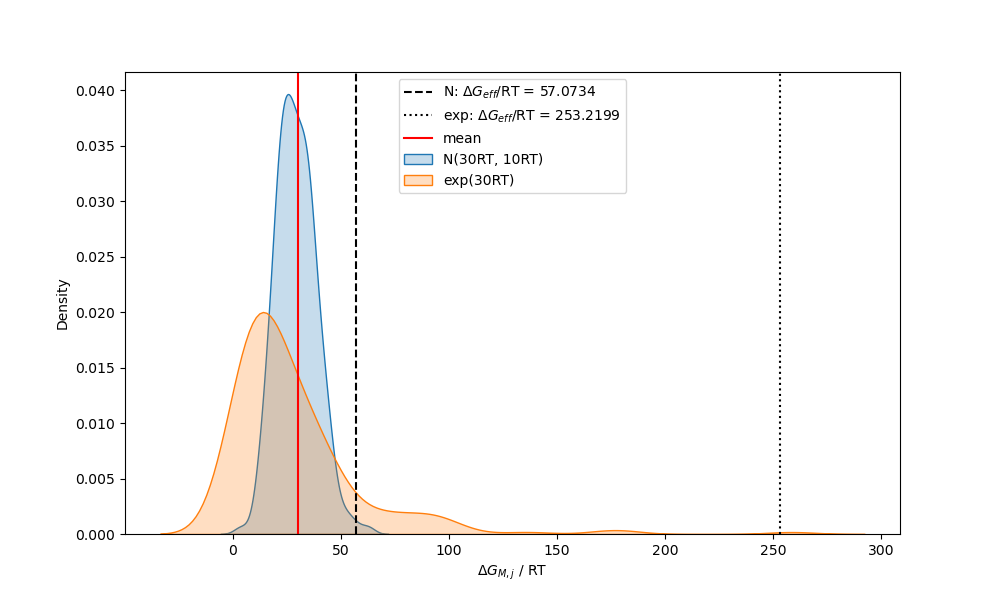
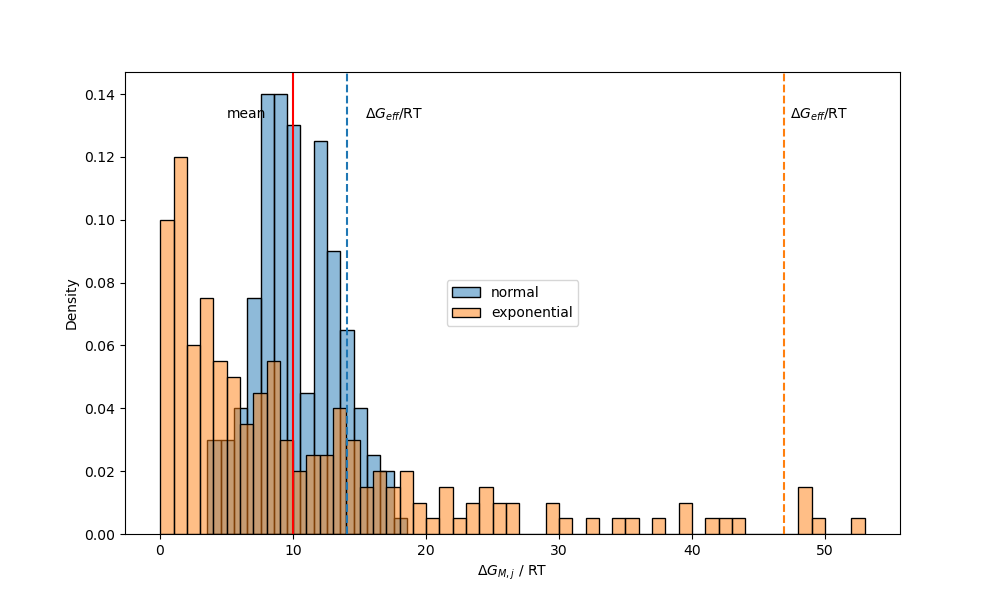
Update analyses and figures

diff --git a/run_analyses.py b/run_analyses.py
@@ -26,7 +26,7 @@ plot_paths = False
 
 # Inputs for testing barriers
 T = 300
-large = 10
+large = 18
 large_barrier = large*R*T
 small_barrier = large_barrier / 2
 sigma = large_barrier / 3
@@ -49,7 +49,7 @@ if parallel_pores:
     for n in range(n_paths):
         model_equal.add_Path(dist=dist, dist_params=params)
         effective_barriers[n] = model_equal.paths[n].calculate_effective_barrier() / (R*T)
-        sns.histplot(model_equal.paths[n].membrane_barriers / (R*T), ax=ax[0], stat='density', fill=fill)
+        sns.histplot(model_equal.paths[n].membrane_barriers / (R*T), edgecolor=None, ax=ax[0], stat='density', fill=fill, alpha=0.25)
         # model_equal.paths[n].plot_distribution(fill=fill, ax=ax[0])
 
     permeability = model_equal.calculate_permeability()
@@ -77,7 +77,7 @@ if parallel_pores:
     for n in range(n_paths):
         model_norm.add_Path(dist=dist, dist_params=params)
         effective_barriers[n] = model_norm.paths[n].calculate_effective_barrier() / (R*T)
-        sns.histplot(model_norm.paths[n].membrane_barriers / (R*T), ax=ax[1], stat='density', fill=fill)
+        sns.histplot(model_norm.paths[n].membrane_barriers / (R*T), binwidth=1, edgecolor=None, ax=ax[1], stat='density', fill=fill, alpha=0.25)
         # model_norm.paths[n].plot_distribution(fill=fill, ax=ax[1])
 
     permeability = model_norm.calculate_permeability()
@@ -106,7 +106,7 @@ if parallel_pores:
     for n in range(n_paths):
         model_exp.add_Path(dist=dist, dist_params=params)
         effective_barriers[n] = model_exp.paths[n].calculate_effective_barrier() / (R*T)
-        sns.histplot(model_exp.paths[n].membrane_barriers / (R*T), ax=ax[2], stat='density', fill=fill)
+        sns.histplot(model_exp.paths[n].membrane_barriers / (R*T), binwidth=1, edgecolor=None, ax=ax[2], stat='density', fill=fill, alpha=0.25)
         # model_exp.paths[n].plot_distribution(fill=fill, ax=ax[2])
 
     permeability = model_exp.calculate_permeability()
@@ -122,6 +122,7 @@ if parallel_pores:
     df_exp['flux_fraction'] = df_exp['permeability_percent'].cumsum() / 100
     df_exp['pore_fraction'] = np.arange(1,n_paths+1) / n_paths
     df_exp.loc[len(df_exp.index)] = [0,0,0,0,0,0] # add zero row for ROC curve
+    
     # PLOTTING
 
     # plot the effective barrier, max barrier, and mean barrier
@@ -141,6 +142,7 @@ if parallel_pores:
     ax[2].set_title(f'Exponential distribution, mean = {large_barrier/R/T:.0f}RT')
 
     ax[2].set_xlabel('$\Delta G_{M,j} / RT$')
+    ax[2].set_xlim(-10,)
 
     fig1, ax1 = plt.subplots(1,1, figsize=(6,6))
     sns.barplot(data=df_norm, x='pores', y='permeability_percent', ax=ax1)
@@ -155,8 +157,6 @@ if parallel_pores:
     xmin, xmax = plt.xlim()
     ymin, ymax = plt.ylim()
     ax2.text(xmax*0.95, ymax*0.9, 'Max P: {:.4f}\nOverall P: {:.4f}'.format(df_exp['permeability'].max(), df_exp['permeability'].sum()), ha='right')
-
-    print(df_exp)
     
     fig3, ax3 = plt.subplots(1,1, figsize=(6,6))
     sns.lineplot(data=df_equal, x='pore_fraction', y='flux_fraction', ax=ax3, label='equal')
@@ -176,20 +176,25 @@ if compare_effective_barriers:
     model = Path(T=T, dist=dist, dist_params=params)
     dG_eff = model.calculate_effective_barrier() / (R*T)
     model.membrane_barriers = model.membrane_barriers / (R*T)
-    ax = model.plot_distribution(bw='scott', show_hist=False, label=f'N({large_barrier/R/T:.0f}RT, {sigma/R/T:.0f}RT)')
-    ax.axvline(dG_eff, ls='dashed', c='k', label='N: $\Delta G_{eff}$/RT = %.4f' % (dG_eff))
+    ax = model.plot_distribution(hist=True, color='tab:blue', binwidth=1, label='normal')
+    ymin, ymax = plt.ylim()
+    ax.axvline(dG_eff, ls='dashed', c='tab:blue')
+    ax.text(dG_eff*1.1, ymax*0.9, '$\Delta G_{eff}$/RT')
 
     dist = 'exponential'
     params = {'beta' : large_barrier}
     model = Path(T=T, dist=dist, dist_params=params)
     dG_eff = model.calculate_effective_barrier() / (R*T)
     model.membrane_barriers = model.membrane_barriers / (R*T)
-    model.plot_distribution(bw='scott', show_hist=False, ax=ax, label=f'exp({large_barrier/R/T:.0f}RT)')
-    ax.axvline(dG_eff, ls='dotted', c='k', label='exp: $\Delta G_{eff}$/RT = %.4f' % (dG_eff))
+    model.plot_distribution(hist=True, color='tab:orange', binwidth=1, ax=ax, label='exponential')
+    ymin, ymax = plt.ylim()
+    ax.axvline(dG_eff, ls='dashed', c='tab:orange')
+    ax.text(dG_eff*1.01, ymax*0.9, '$\Delta G_{eff}$/RT')
     
-    ax.axvline(large_barrier/R/T, c='r', label='mean')
+    ax.axvline(large, c='r')
+    ax.text(large*0.5, ymax*0.9, 'mean', ha='left')
     ax.set_xlabel('$\Delta G_{M,j}$ / RT')
-    plt.legend(loc='upper center')
+    plt.legend(loc='center')
     plt.show()
 
 if estimate_dH_dS_barrier_distributions:
@@ -338,6 +343,7 @@ if compare_jump_lengths:
     jump_dist = 'equal'
     
     permeabilities = np.zeros(len(lambdas))
+    deltas = np.zeros(len(lambdas))
     effective_barriers = np.zeros(len(lambdas))
         
     for i,lam in tqdm(enumerate(lambdas)):
@@ -353,10 +359,14 @@ if compare_jump_lengths:
     
             
         permeabilities[i] = model.calculate_permeability()
+        deltas[i] = np.array(model.deltas).mean()
+        effective_barriers[i] = model.calculate_effective_barrier()
 
     df1 = pd.DataFrame()
     df1['lambda'] = lambdas
     df1['permeability'] = permeabilities
+    df1['thickness'] = deltas
+    df1['effective_barriers'] = effective_barriers*R*T
     df1['distribution'] = ['equal']*len(lambdas)
 
     # Jump lengths NORMAL
@@ -375,10 +385,14 @@ if compare_jump_lengths:
             model.paths[n].generate_jump_distribution(dist=jump_dist, dist_params=jump_params)
                 
         permeabilities[i] = model.calculate_permeability()
+        deltas[i] = np.array(model.deltas).mean()
+        effective_barriers[i] = model.calculate_effective_barrier()
 
     df2 = pd.DataFrame()
     df2['lambda'] = lambdas
     df2['permeability'] = permeabilities
+    df2['thickness'] = deltas
+    df2['effective_barriers'] = effective_barriers*R*T
     df2['distribution'] = ['normal']*len(lambdas)
 
     # Jump lengths EXPONENTIAL
@@ -397,15 +411,36 @@ if compare_jump_lengths:
             model.paths[n].generate_jump_distribution(dist=jump_dist, dist_params=jump_params)
                 
         permeabilities[i] = model.calculate_permeability()
+        deltas[i] = np.array(model.deltas).mean()
+        effective_barriers[i] = model.calculate_effective_barrier()
 
     df3 = pd.DataFrame()
     df3['lambda'] = lambdas
     df3['permeability'] = permeabilities
+    df3['thickness'] = deltas
+    df3['effective_barriers'] = effective_barriers*R*T
     df3['distribution'] = ['exponential']*len(lambdas)
 
     sns.lineplot(data=df1, x='lambda', y='permeability', color='tab:blue', label='equal')
     sns.lineplot(data=df2, x='lambda', y='permeability', color='tab:orange', label='normal')
     sns.lineplot(data=df3, x='lambda', y='permeability', color='tab:green', label='exponential')
-    plt.xlabel('$\lambda$ (Angstrom)')
+    plt.xlabel('mean jump length (Angstroms)')
+    plt.ylabel('permeability ($L/m^2 h$)')
+    plt.legend()
+    plt.show()
+
+    sns.scatterplot(data=df1, x='lambda', y='thickness', color='tab:blue', label='equal')
+    sns.scatterplot(data=df2, x='lambda', y='thickness', color='tab:orange', label='normal')
+    sns.scatterplot(data=df3, x='lambda', y='thickness', color='tab:green', label='exponential')
+    plt.xlabel('mean jump length (Angstroms)')
+    plt.ylabel('thickness (Angstroms)')
+    plt.legend()
+    plt.show()
+
+    sns.scatterplot(data=df1, x='lambda', y='effective_barriers', color='tab:blue', label='equal')
+    sns.scatterplot(data=df2, x='lambda', y='effective_barriers', color='tab:orange', label='normal')
+    sns.scatterplot(data=df3, x='lambda', y='effective_barriers', color='tab:green', label='exponential')
+    plt.xlabel('mean jump length (Angstroms)')
+    plt.ylabel('$\Delta G_{eff}$/RT')
     plt.legend()
     plt.show()

diff --git a/eyring_model.py b/eyring_model.py
@@ -341,14 +341,14 @@ class Path:
         return -np.log(num / den) * R*temp
 
 
-    def plot_distribution(self, bw=None, hist=False, n_bins=50, label=None, fill=True, ax=None, color=None):
+    def plot_distribution(self, bw=None, hist=False, n_bins=50, binwidth=None, label=None, fill=True, ax=None, color=None):
 
         if ax is None:
             fig, ax = plt.subplots(1,1, figsize=(10,6))
 
         if hist:
-            sns.histplot(self.membrane_barriers, bins=n_bins, 
-                         stat='density', ax=ax, color=color)
+            sns.histplot(self.membrane_barriers, bins=n_bins, binwidth=binwidth, edgecolor='black',
+                         stat='density', ax=ax, color=color, alpha=0.5, label=label)
         else:
             sns.kdeplot(self.membrane_barriers, bw_method=bw, label=label, fill=fill, ax=ax, color=color)
         
